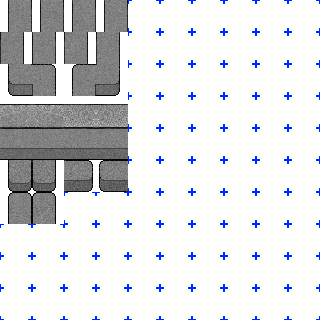
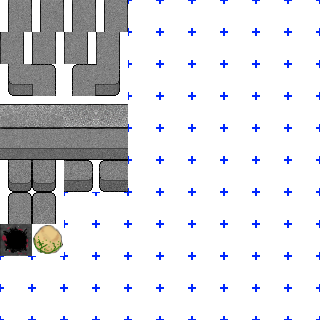
mostly changes to tile sets and added pausing and mouse input

Changed region(s): [[0.0, 0.6875, 0.2188, 0.8125]]

diff --git a/src/net/anorrah/Core.java b/src/net/anorrah/Core.java
@@ -40,8 +40,8 @@ public class Core extends Applet implements Runnable
 	
 	public static EntityPlayer player;
 	public static Core t;
-	public ArrayList<Entity> entities = new ArrayList<Entity>();
-	public ArrayList<Entity> removethese = new ArrayList<Entity>();
+	public static ArrayList<Entity> entities = new ArrayList<Entity>();
+	public static ArrayList<Entity> removethese = new ArrayList<Entity>();
 	
 	public static int offset_MAX_X, offset_MAX_Y, offset_MIN_X = 0, offset_MIN_Y = 0;
 	public static Rectangle camera = new Rectangle(0,0,VIEWPORT_SIZE.width,VIEWPORT_SIZE.height);
@@ -49,8 +49,10 @@ public class Core extends Applet implements Runnable
 	//Constructor
 	public Core()
 	{
+		InputManager inpt = new InputManager();
 		setPreferredSize(VIEWPORT_SIZE);
-		addKeyListener(new InputManager());
+		addKeyListener(inpt);
+		addMouseListener(inpt);
 	}
 	
 	public static void main(String[] args) 
@@ -79,8 +81,8 @@ public class Core extends Applet implements Runnable
 		level = new Level();
 		new Tile();
 		
-		offset_MAX_X = level.width - VIEWPORT_SIZE.width;
-		offset_MAX_Y = level.height - VIEWPORT_SIZE.height;
+		offset_MAX_X = Level.width - VIEWPORT_SIZE.width;
+		offset_MAX_Y = Level.height - VIEWPORT_SIZE.height;
 		
 		initEntities();
 		//player.setTilePosition(20, 20);
@@ -111,7 +113,12 @@ public class Core extends Applet implements Runnable
 
 	}
 	
-	public void remove(Entity entity)
+	public static void addEntity(Entity entity)
+	{
+		entities.add(entity);
+	}
+	
+	public static void remove(Entity entity)
 	{
 		removethese.add(entity);
 	}
@@ -157,8 +164,7 @@ public class Core extends Applet implements Runnable
 		level.render(g, (int)(offset_X), (int)(offset_Y), (pixel.width/Tile.size), (pixel.height/Tile.size));
 		
 		g.setColor(Color.orange);
-		g.drawString("offset_X: " + (int)offset_X , 590, 510);
-		g.drawString("offset_Y: " + (int)offset_Y , 590, 525);
+		g.drawString("LEVEL: " + level.num_level , 590, 510);
 		g.drawString("FPS: " + renderFPS, 600, 540);
 		
 		//g.translate(-(player.Rx - VIEWPORT_SIZE.width/2 + Tile.size/2),-(player.Ry - VIEWPORT_SIZE.height/2 + Tile.size/2));

diff --git a/src/net/anorrah/InputManager.java b/src/net/anorrah/InputManager.java
@@ -19,75 +19,53 @@ public class InputManager implements KeyListener, MouseListener
 		switch(key)
 		{
 		case KeyEvent.VK_W:
-			if(!Core.player.isMoving)
+			if(Core.inGame && !Core.player.isMoving)
 			{
 				Core.bW = true;
 			}
 			break;
 			
 		case KeyEvent.VK_A:
-			if(!Core.player.isMoving)
+			if(Core.inGame && !Core.player.isMoving)
 			{
 				Core.bA = true;
 			}
 			break;
 			
 		case KeyEvent.VK_S:
-			if(!Core.player.isMoving)
+			if(Core.inGame && !Core.player.isMoving)
 			{
 				Core.bS = true;
 			}
 			break;
 			
 		case KeyEvent.VK_D:
-			if(!Core.player.isMoving)
+			if(Core.inGame && !Core.player.isMoving)
 			{
 				Core.bD = true;
 			}
 			break;
 			
 		case KeyEvent.VK_SPACE:
-			
 			Core.player.attack();
+			break;
+			
+		case KeyEvent.VK_ESCAPE:
+			Core.inGame = !Core.inGame;
+			if(Core.inGame)
+				System.out.println("unPaused");
+			else
+				System.out.println("Paused");
 			break;
 			
 		default:
 			break;
-			
 		}
 	}
 
 	public void keyReleased(KeyEvent e) 
 	{
-		/*
-		int key = e.getKeyCode();
 		
-		switch(key)
-		{
-		case KeyEvent.VK_W:
-			Core.player.isMoving = false;
-			Core.bW = false;
-			break;
-			
-		case KeyEvent.VK_A:
-			Core.player.isMoving = false;
-			Core.bA = false;
-			break;
-			
-		case KeyEvent.VK_S:
-			Core.player.isMoving = false;
-			Core.bS = false;
-			break;
-			
-		case KeyEvent.VK_D:
-			Core.player.isMoving = false;
-			Core.bD = false;
-			break;
-			
-		default:
-			break;
-			
-		}*/
 	}
 
 	public void keyTyped(KeyEvent e) 
@@ -98,8 +76,7 @@ public class InputManager implements KeyListener, MouseListener
 //Mouse Events--------------------------------------------------------------------------------------------
 //these need to be here
 	public void mouseClicked(MouseEvent e)//whenever a button has been pressed and Released 
-	{
-		
+	{		
 		System.out.println("attack at " + e.getID());
 	}
 

diff --git a/src/net/anorrah/Level.java b/src/net/anorrah/Level.java
@@ -10,7 +10,8 @@ import java.util.concurrent.LinkedBlockingQueue;
 
 public class Level 
 {
-	public static int width = 21, height = 17, num_level = 1, center_w = 10, center_h = 8;
+	public static final int width = 21, height = 17, center_w = 10, center_h = 8;
+	public static int num_level = 1;
 	
 	public Background[][] bg = new Background[width][height];
 	public Solid[][] solid = new Solid[width][height];
@@ -245,6 +246,13 @@ public class Level
 			down = true;
 			nextbottom = rooms.get(playerlocation).down;
 		}
+		
+		if(playerlocation == rooms.size())
+			bg[center_w][center_h] = new Background(new Rectangle((center_w)*Tile.size, (center_h)*Tile.size, Tile.size, Tile.size), Tile.exit);
+		else if(playerlocation == 1)
+			bg[center_w][center_h] = new Background(new Rectangle((center_w)*Tile.size, (center_h)*Tile.size, Tile.size, Tile.size), Tile.sealed);
+		else
+			bg[center_w][center_h] = new Background(new Rectangle((center_w)*Tile.size, (center_h)*Tile.size, Tile.size, Tile.size), Tile.floor1);
 	}
 	
 	private int firstroom(int r)
@@ -311,7 +319,8 @@ public class Level
 	{
 		rooms.clear();//level is cleared and next level is to load
 		num_level++;
-		
+		playerlocation = 1;
+		EntityPlayer.player_room_num = playerlocation;
 		//change the min and max number of rooms if appropriate
 		minRooms++;
 		if(minRooms >= maxRooms)
@@ -323,6 +332,8 @@ public class Level
 			minRooms += 2;
 			maxRooms += minRooms;
 		}
+		setbackgroundtiles();
+		setedge();
 		generateRooms();
 	}
 	
@@ -370,6 +381,13 @@ public class Level
 				EntityPlayer.tY = 0;//load player at the right
 				setedge();
 				loadroom();
+			}
+		}
+		if(playerlocation == rooms.size())
+		{
+			if(EntityPlayer.tX == center_w && EntityPlayer.tY == center_h)
+			{
+				ExitReached();
 			}
 		}
 	}

diff --git a/src/net/anorrah/Tile.java b/src/net/anorrah/Tile.java
@@ -18,6 +18,8 @@ public class Tile
 	public static int[] floor6 = {5, 0};
 	public static int[] floor7 = {6, 0};
 	public static int[] floorend = {7,0};
+	public static int[] exit = {8,0};
+	public static int[] sealed = {9,0};
 	
 	//solids
 	public static int[] wall_left1 = {0,0};

diff --git a/src/net/anorrah/EntityPlayer.java b/src/net/anorrah/EntityPlayer.java
@@ -111,6 +111,7 @@ public class EntityPlayer extends Entity
 	public boolean canMove(int i, int j)
 	{
 		//System.out.println("\nCurrently at:\t" + tX + " " + tY);
+		
 		if(i < 0 || j < 0 || i >= max_Xdistance || j >= max_Ydistance)
 		{
 			return true;
